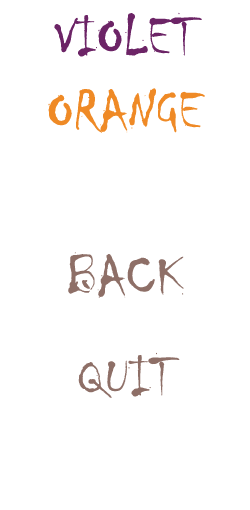
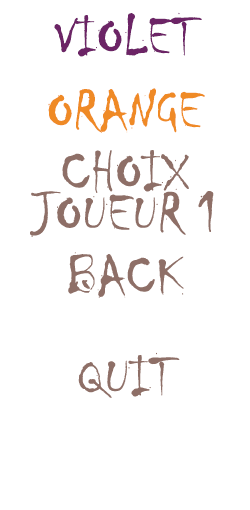
Implémentation menu

diff --git a/forgeTNCY/main.c b/forgeTNCY/main.c
@@ -18,7 +18,8 @@ int main() {
 	const int SCREEN_HEIGHT = 594;
 	const int SCREEN_BPP = 32;
 
-	int run = 1;
+	int run1 = 1;
+	int run2 = 1;
 
 	int clicx =0;
 	int clicy =0;
@@ -32,12 +33,7 @@ int main() {
 	SDL_Surface *screen = NULL;
 	SDL_Surface *plateau = NULL;
 	SDL_Surface *background = NULL;
-	// Les surfaces des différentes vues du menu
-	SDL_Surface *colorMenu = NULL;
-	SDL_Surface *orangeWins = NULL;
-	SDL_Surface *startMenu = NULL;
-	SDL_Surface *versusMenu = NULL;
-	SDL_Surface *violetWins = NULL;
+	SDL_Surface *menu = NULL;
 	
 	//La structure d'evenement
 	SDL_Event event;
@@ -76,16 +72,12 @@ int main() {
 	//Chargement des images
 	plateau = load_image( "plateau.bmp" );
 	background = load_image( "background.bmp" );
-	colorMenu = IMG_Load( "menu/colorMenu.png" );
-	orangeWins = IMG_Load( "menu/orangeWins.png" );
-	startMenu = IMG_Load( "menu/startMenu.png" );
-	versusMenu = IMG_Load( "menu/versusMenu.png" );
-	violetWins = IMG_Load( "menu/violetWins.png" );
+	menu = IMG_Load( "menu/startMenu.png" );
 	
-	// Placement de la surface startMenu
-	SDL_Rect startMenuPosition;
-	startMenuPosition.x = 3 * SCREEN_WIDTH / 4 - startMenu->w / 2;
-	startMenuPosition.y = SCREEN_HEIGHT / 2 - startMenu->h / 2;
+	// Placement de la surface menu
+	SDL_Rect menuPosition;
+	menuPosition.x = 3 * SCREEN_WIDTH / 4 - menu->w / 2;
+	menuPosition.y = SCREEN_HEIGHT / 2 - menu->h / 2;
 
 	// Création de la transparence sur le pourtour du plateau
 	SDL_SetColorKey(plateau, SDL_SRCCOLORKEY, SDL_MapRGB(plateau->format, 0, 255, 0));
@@ -93,31 +85,83 @@ int main() {
 	//Application des surfaces sur l'ecran
 	apply_surface( 0, 0, background, screen );
 
-	SDL_BlitSurface(startMenu, NULL, screen, &startMenuPosition);
+	SDL_BlitSurface(menu, NULL, screen, &menuPosition);
 	
 	SDL_Flip(screen); // Mise à jour de l'écran
 
-	/////METTRE LE MENU ICI
-
-	while (run) { // TANT QUE la variable ne vaut pas 0
+	while (run1) { // TANT QUE la variable ne vaut pas 0
         	SDL_WaitEvent(&event); // On attend un événement qu'on récupère dans event
         	switch(event.type) { // On teste le type d'événement
             		case SDL_KEYDOWN:
-            			if (event.key.keysym.sym && SDLK_ESCAPE) { // Appui sur la touche Echap, on arrête le programme  
-                    			run = 0;
-            			}
+				switch (event.key.keysym.sym) {
+					case SDLK_ESCAPE: // Appui sur la touche Echap, on arrête le programme
+						run1 = 0;
+						break;
+					default:
+					run = 1;
+				}
             			break;
 			case SDL_MOUSEBUTTONUP:
-				if (event.button.x >= 3 * SCREEN_WIDTH / 4 - 60  && event.button.x <= 3 * SCREEN_WIDTH / 2 + 60 && event.button.y >= 3 * SCREEN_HEIGHT / 4 - 60 && event.button.y <= 3 * SCREEN_HEIGHT / 4 + 60 ) {					
+				if (event.button.x >= 3 * SCREEN_WIDTH / 4 - 60  && event.button.x <= 3 * SCREEN_WIDTH / 2 + 60 && event.button.y >= 3 * SCREEN_HEIGHT / 4 - 40 && event.button.y <= 3 * SCREEN_HEIGHT / 4 + 40 ) { // Touche quitter
 					run = 0;
 				}
-					break;
+				else if (event.button.x >= 3 * SCREEN_WIDTH / 4 - 60  && event.button.x <= 3 * SCREEN_WIDTH / 2 + 60 && event.button.y >= SCREEN_HEIGHT / 4 - 40 && event.button.y <= SCREEN_HEIGHT / 4 + 40 ) { // Touche nouveau jeu
+					menu = IMG_Load( "menu/versusMenu.png" );
+					apply_surface( 0, 0, background, screen );
+					SDL_BlitSurface(menu, NULL, screen, &menuPosition);
+					SDL_Flip(screen); // Mise à jour de l'écran
+					while (run && run) { // TANT QUE la variable ne vaut pas 0
+        					SDL_WaitEvent(&event); // On attend un événement qu'on récupère dans event
+        					switch(event.type) { // On teste le type d'événement
+            						case SDL_KEYDOWN:
+								switch (event.key.keysym.sym) {
+									case SDLK_ESCAPE: // Appui sur la touche Echap, on arrête le programme
+									run = 0;
+									break;
+									default:
+									run = 1;
+								}
+            							break;
+							case SDL_MOUSEBUTTONUP:
+								if (event.button.x >= 3 * SCREEN_WIDTH / 4 - 60  && event.button.x <= 3 * SCREEN_WIDTH / 2 + 60 && event.button.y >= 3 * SCREEN_HEIGHT / 4 - 40 && event.button.y <= 3 * SCREEN_HEIGHT / 4 + 40 ) { // Touche quitter
+									run = 0;
+								}
+								else if (event.button.x >= 3 * SCREEN_WIDTH / 4 - 60  && event.button.x <= 3 * SCREEN_WIDTH / 2 + 60 && event.button.y >= SCREEN_HEIGHT / 8 - 40 && event.button.y <= SCREEN_HEIGHT / 8 + 40 ) { // Touche 1VS1
+									menu = IMG_Load( "menu/colorMenu.png" );
+									apply_surface( 0, 0, background, screen );
+									SDL_BlitSurface(menu, NULL, screen, &menuPosition);
+									SDL_Flip(screen); // Mise à jour de l'écran
+
+
+									// CHOIX COULEUR
+
+									// DEBUT JEU
+
+								}
+								else if (event.button.x >= 3 * SCREEN_WIDTH / 4 - 60  && event.button.x <= 3 * SCREEN_WIDTH / 2 + 60 && event.button.y >= 2 * SCREEN_HEIGHT / 8 - 40 && event.button.y <= 2 * SCREEN_HEIGHT / 8 + 40 ) { // Touche VS IA
+									// LANCER LE JEU VS L'IA
+					
+								}
+								else if (event.button.x >= 3 * SCREEN_WIDTH / 4 - 60  && event.button.x <= 3 * SCREEN_WIDTH / 2 + 60 && event.button.y >= 2 * SCREEN_HEIGHT / 4 - 40 && event.button.y <= 2 * SCREEN_HEIGHT / 4 + 40 ) { // Touche 1VS1
+									menu = IMG_Load( "menu/startMenu.png" );
+									apply_surface( 0, 0, background, screen );
+									SDL_BlitSurface(menu, NULL, screen, &menuPosition);
+									SDL_Flip(screen); // Mise à jour de l'écran
+					
+								}
+
+								break;
+			
+        					}
+					}
+				}
+				break;
 			
         	}
 	}
 
 
-    SDL_Quit();
+    	SDL_Quit();
 	
 	
 	//Application des surfaces sur l'ecran
@@ -128,55 +172,12 @@ int main() {
         return 1;
 	}
 
-//modif=IAS(p, pile, screen, joueuractuel); //IA
-//SDL_Flip( screen ); //IA
-//modif =0; //IA
 
-while( quit == 0 ) {
-	//Tant qu'il y a un événement à traiter 
-	while( SDL_PollEvent( &event ) ) {
-		switch(event.type) {
-
-			//Si l'utilisateur clique
-			case SDL_MOUSEBUTTONUP:
-				clicx = event.button.x;
-				clicy = event.button.y;
-				if (joueuractuel = "bleu") {
-					modif=ajouterpiece(fctpos(clicx,clicy, pixel), p, joueuractuel, screen, pile);
-				}
-				if (modif ==1) {
-					joueuractuel = changeplayer(joueuractuel);
-				}
-				if( SDL_Flip( screen ) == -1 ) {
-  					     return 1;
-				}
-	
-				if (joueuractuel = "rouge") {
-					modif=IAS(p, pile, screen, joueuractuel);
-				}
-				if (modif ==1) {
-					joueuractuel = changeplayer(joueuractuel);
-				}
-				SDL_Flip( screen );
-				modif=0;
-				break;
-
-				//Si l'utilisateur a cliqué sur le X de la fenêtre
-				case SDL_QUIT:  
-					quit = 1;
-					break; 
-			} 
-		}
-	}	
 	
 	//Liberation des surface
 	SDL_FreeSurface( plateau );
 	SDL_FreeSurface( background );
-	SDL_FreeSurface( colorMenu );
-	SDL_FreeSurface( orangeWins );
-	SDL_FreeSurface( startMenu );
-	SDL_FreeSurface( versusMenu );
-	SDL_FreeSurface( violetWins );
+	SDL_FreeSurface( menu );
 
 	//On quitte sdl
 	SDL_Quit();
